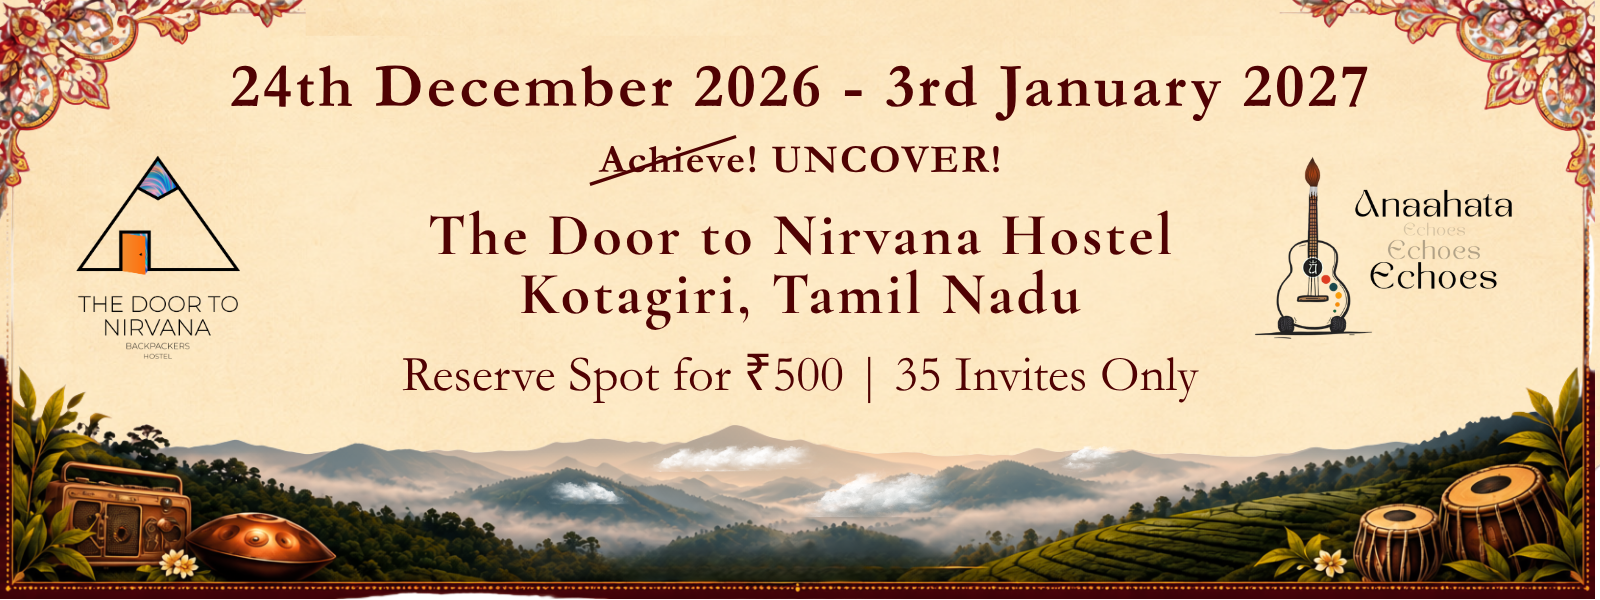
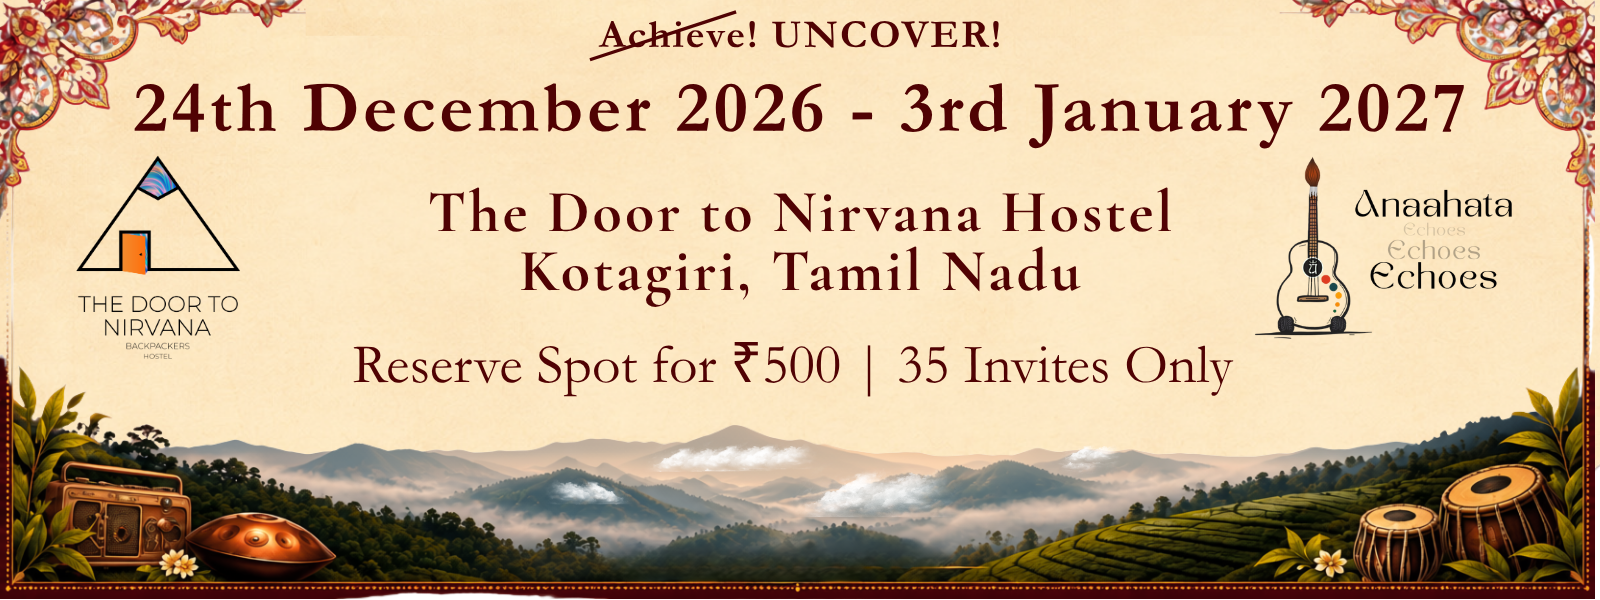
Add files via upload

diff --git a/index.html b/index.html
@@ -203,8 +203,8 @@
       right: 0;
       bottom: 0;
       z-index: 10000;
-      padding-top: 84px;
-      padding-bottom: 68px;
+      padding-top: 82px;
+      padding-bottom: 58px;
       background: var(--bg-canvas);
       color: var(--earth-brown);
       display: flex;
@@ -268,8 +268,31 @@
       display: flex;
       flex-direction: column;
       align-items: center;
+      justify-content: space-between;
+      width: 100%;
+      height: 100%;
+    }
+
+    .breathe-top-spacer {
+      flex: 1;
+      width: 100%;
+    }
+
+    .breathe-main-stack {
+      display: flex;
+      flex-direction: column;
+      align-items: center;
       justify-content: center;
       width: 100%;
+      flex-shrink: 0;
+    }
+
+    .breathe-skip-slot {
+      flex: 1;
+      width: 100%;
+      display: flex;
+      align-items: center;
+      justify-content: center;
     }
 
     .breathe-tag {
@@ -447,7 +470,7 @@
       font-weight: 600;
       letter-spacing: 0.03em;
       cursor: pointer;
-      margin-top: 0.95rem;
+      margin-top: 0;
       padding: 0.4rem 1.05rem;
       box-shadow: 0 2px 6px rgba(40, 28, 21, 0.06);
       transition: all 0.2s ease;
@@ -1453,7 +1476,25 @@
       transform: translateY(-1px);
     }
 
+    .cta-reserve-title {
+      font-size: 1.12rem;
+      font-weight: 800;
+      letter-spacing: 0.02em;
+    }
+
+    .cta-token-sub {
+      font-size: 0.75rem;
+      font-weight: 600;
+      opacity: 0.92;
+    }
+
     @media (max-width: 480px) {
+      .cta-reserve-title {
+        font-size: 0.96rem;
+      }
+      .cta-token-sub {
+        font-size: 0.64rem;
+      }
       .btn-apply-primary {
         font-size: 0.72rem;
         padding: 0.52rem 0.55rem;
@@ -1711,39 +1752,45 @@
     <div class="breathe-bg-scrim" aria-hidden="true"></div>
 
     <div class="breathe-gate-content">
-      <div class="breathe-tag">Nilgiris Mountain Arrival</div>
-      <h2 class="breathe-title">Take a concious breath, the triangle will guide you ahead</h2>
-      <p class="breathe-sub">2s Inhale &emsp;|&emsp; 1s Hold &emsp;|&emsp; 3s Exhale</p>
+      <div class="breathe-top-spacer" aria-hidden="true"></div>
 
-      <!-- INVERTED EQUILATERAL TRIANGLE HUD -->
-      <div class="breathe-hud-container" id="breatheHud">
-        <svg class="breathe-svg-triangle" viewBox="0 0 210 182">
-          <path class="breathe-track-path" d="M 105,172 L 15,16 L 195,16 Z"></path>
-          <path class="breathe-progress-path" id="breatheProgressTriangle" d="M 105,172 L 15,16 L 195,16 Z"></path>
-        </svg>
+      <div class="breathe-main-stack">
+        <div class="breathe-tag">Nilgiris Mountain Arrival</div>
+        <h2 class="breathe-title">Take a concious breath, the triangle will guide you ahead</h2>
+        <p class="breathe-sub">2s Inhale &emsp;|&emsp; 1s Hold &emsp;|&emsp; 3s Exhale</p>
 
-        <div class="breathe-hud-interior" id="breatheHudInterior">
-          <div class="breathe-hud-main-text" id="breatheMainText">READY TO<br>ARRIVE?</div>
-          <div class="breathe-hud-sub-text" id="breatheSubText">Hold button<br>below</div>
+        <!-- INVERTED EQUILATERAL TRIANGLE HUD -->
+        <div class="breathe-hud-container" id="breatheHud">
+          <svg class="breathe-svg-triangle" viewBox="0 0 210 182">
+            <path class="breathe-track-path" d="M 105,172 L 15,16 L 195,16 Z"></path>
+            <path class="breathe-progress-path" id="breatheProgressTriangle" d="M 105,172 L 15,16 L 195,16 Z"></path>
+          </svg>
+
+          <div class="breathe-hud-interior" id="breatheHudInterior">
+            <div class="breathe-hud-main-text" id="breatheMainText">READY TO<br>ARRIVE?</div>
+            <div class="breathe-hud-sub-text" id="breatheSubText">Hold button<br>below</div>
+          </div>
+        </div>
+
+        <div class="breathe-touch-target-wrap" id="breatheTouchWrap"
+             onmousedown="startBreathingSession(event)" 
+             onmouseup="stopBreathingSession(event)"
+             onmouseleave="stopBreathingSession(event)"
+             ontouchstart="startBreathingSession(event)" 
+             ontouchend="stopBreathingSession(event)"
+             ontouchcancel="stopBreathingSession(event)">
+          
+          <div class="breathe-touch-btn">
+            <span class="touch-target-label">PRESS &amp; HOLD</span>
+          </div>
         </div>
       </div>
 
-      <div class="breathe-touch-target-wrap" id="breatheTouchWrap"
-           onmousedown="startBreathingSession(event)" 
-           onmouseup="stopBreathingSession(event)"
-           onmouseleave="stopBreathingSession(event)"
-           ontouchstart="startBreathingSession(event)" 
-           ontouchend="stopBreathingSession(event)"
-           ontouchcancel="stopBreathingSession(event)">
-        
-        <div class="breathe-touch-btn">
-          <span class="touch-target-label">PRESS &amp; HOLD</span>
-        </div>
+      <div class="breathe-skip-slot">
+        <button type="button" class="breathe-skip-btn" onclick="unlockGateInstant(true)">
+          Enter directly →
+        </button>
       </div>
-
-      <button type="button" class="breathe-skip-btn" onclick="unlockGateInstant(true)">
-        Enter directly →
-      </button>
     </div>
   </div>
 
@@ -2637,7 +2684,7 @@
   <footer class="sticky-footer-bar">
     <div class="footer-button-pair">
       <a href="https://pages.razorpay.com/FLOWFEST2026" target="_blank" rel="noopener noreferrer" class="btn-apply-primary" onclick="handleApplyClick(this)">
-        <span>Reserve Invite →<br><small style="font-size: 0.82em; font-weight: 600; opacity: 0.92;">₹500 Refundable Token</small></span>
+        <span><span class="cta-reserve-title">Reserve Invite →</span><br><small class="cta-token-sub">₹500 Refundable Token</small></span>
       </a>
 
       <a href="https://wa.me/918805479801?text=Hi%20Anaahata%20Echoes,%20I%20want%20to%20know%20more%20about%20Flowfest%202026%20at%20Kotagiri" target="_blank" rel="noopener noreferrer" class="btn-chat-hosts" onclick="handleChatHostsClick()">
@@ -2660,7 +2707,7 @@
 
     <div class="lightbox-floating-cta-wrap">
       <a href="https://pages.razorpay.com/FLOWFEST2026" target="_blank" rel="noopener noreferrer" class="lightbox-cta-btn" onclick="handleApplyClick(this)">
-        <span>Reserve Invite →<br><small style="font-size: 0.82em; font-weight: 600; opacity: 0.92;">₹500 Refundable Token</small></span>
+        <span><span class="cta-reserve-title">Reserve Invite →</span><br><small class="cta-token-sub">₹500 Refundable Token</small></span>
       </a>
     </div>
   </div>
